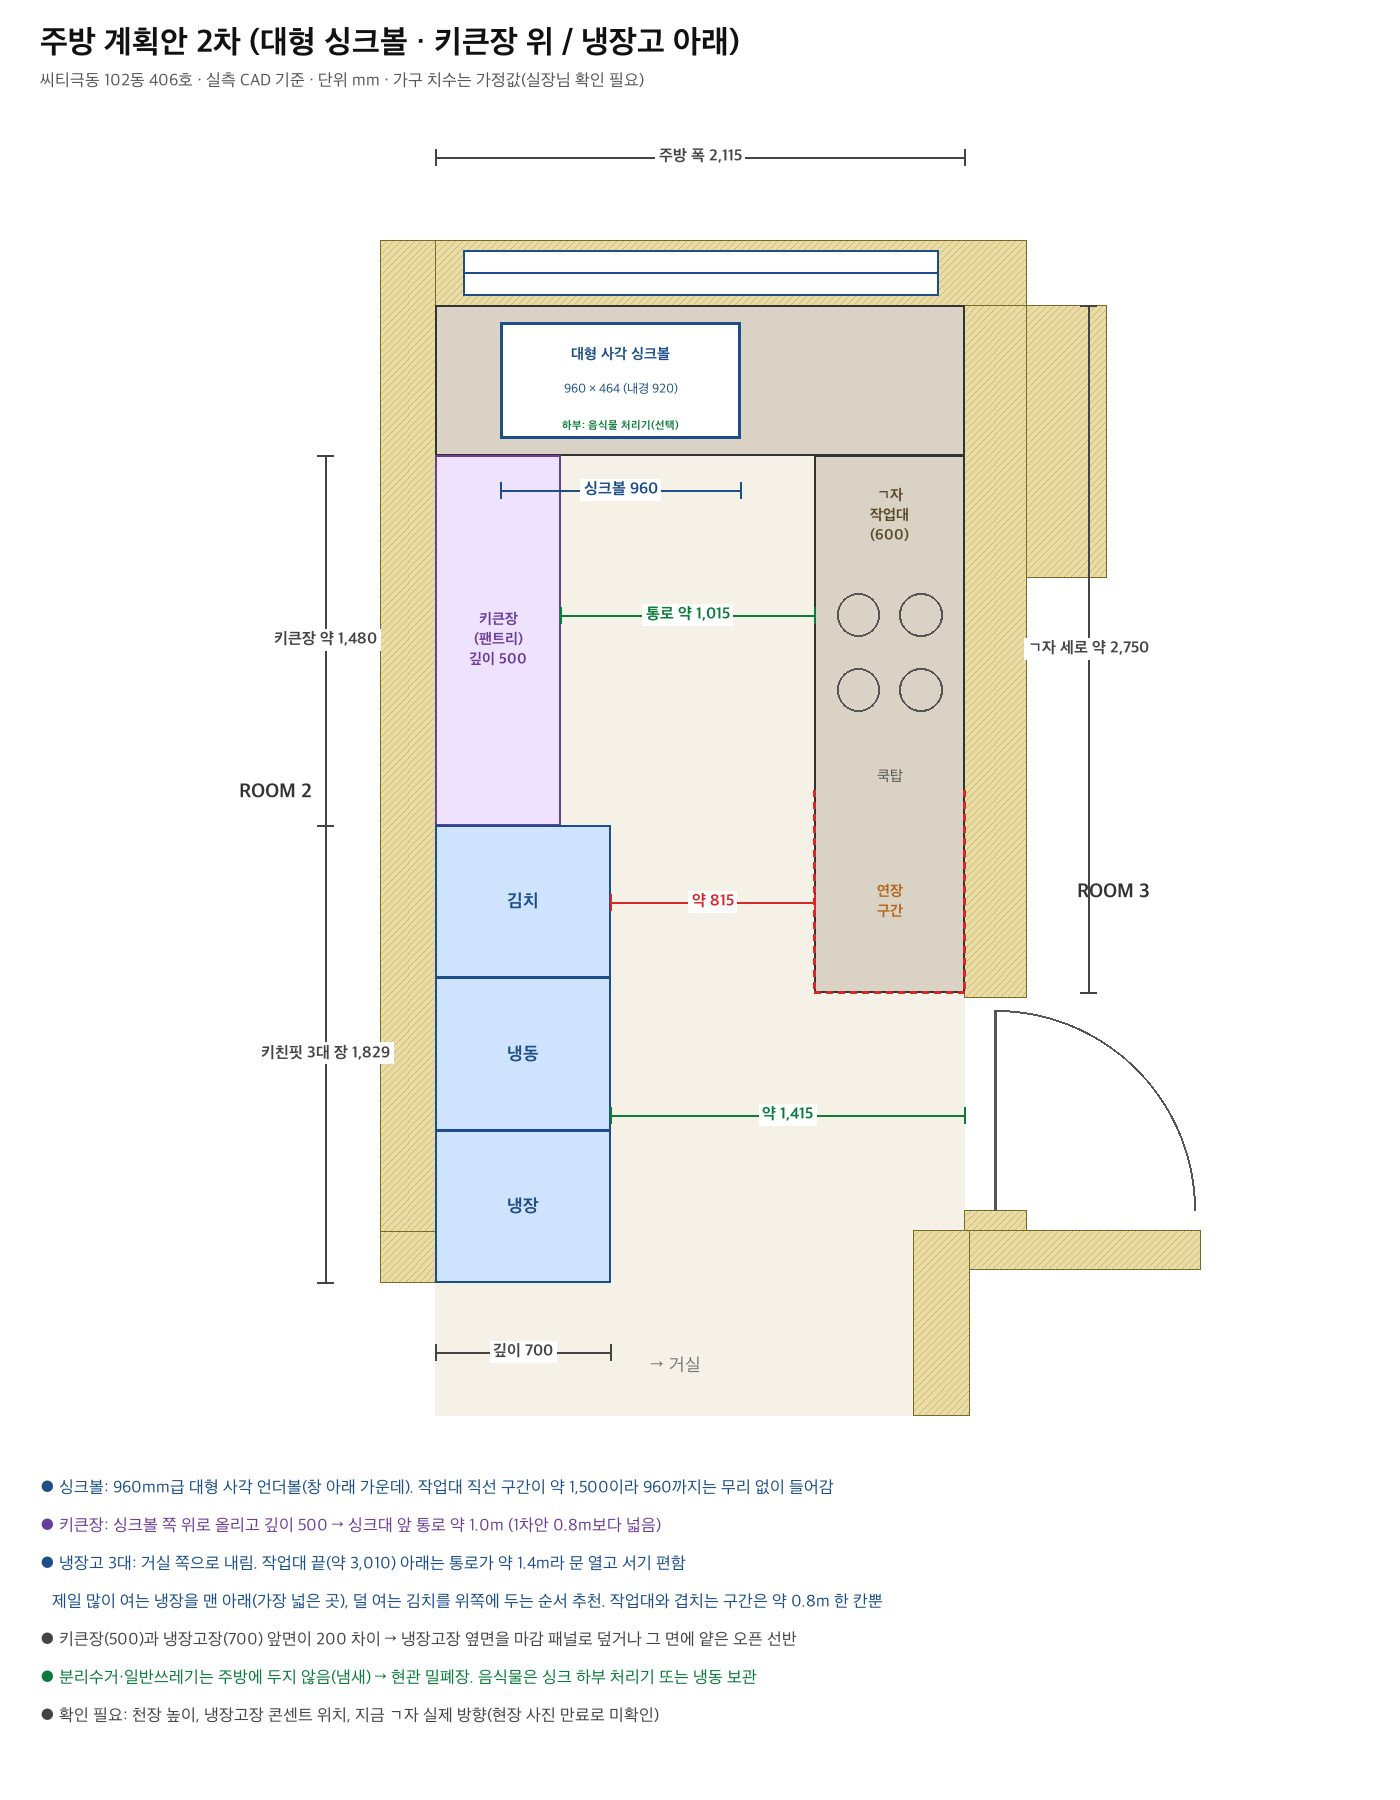
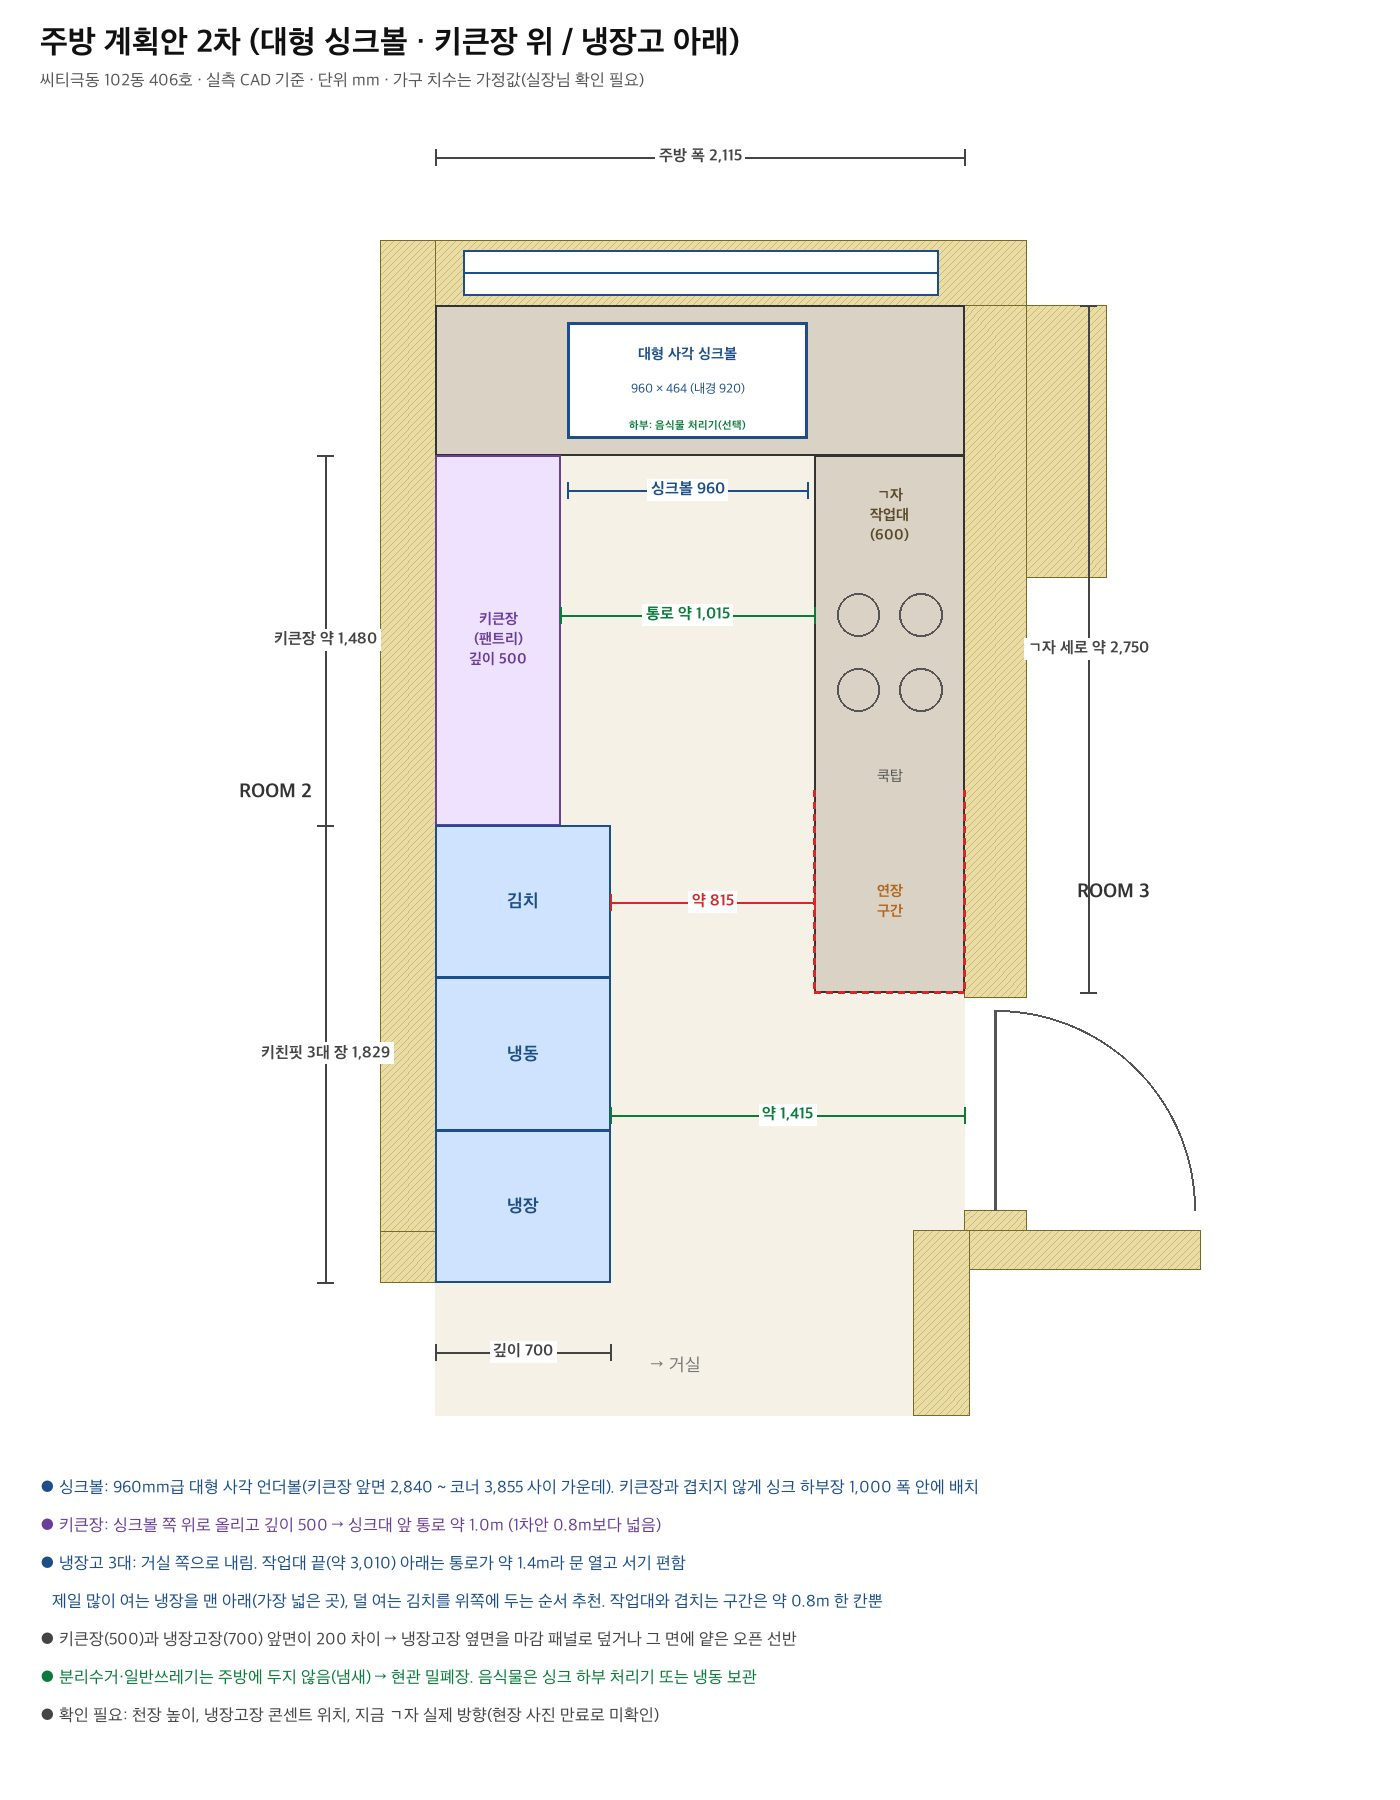
싱크 위치(키큰장 간섭) 수정, 안방 침대·협탁 재배치, 문 열림·통로 자동 점검 반영

Changed region(s): [[0.3379, 0.1556, 0.5836, 0.28], [0.215, 0.8089, 0.6143, 0.84], [0.645, 0.8089, 0.6757, 0.84]]

diff --git a/js/concepts.js b/js/concepts.js
@@ -14,16 +14,16 @@ export const CONCEPTS = [
     V: { bench: true },
     pal: [['#efe6d9', '벽 · 크림'], ['#ba9168', '바닥 · 미디엄 오크'], ['#7a5236', '식탁 · 월넛'], ['#c9ae8f', '소파 · 카멜 패브릭'], ['#c48a6a', '의자 · 테라코타 패브릭'], ['#8a6446', '중문 · 우드 프레임 + 모루유리']],
     inter: ['우드 프레임 + 모루유리 중문으로 현관을 따뜻하게(빛은 통과, 시선은 흐리게)', '월넛 식탁·테라코타 패브릭 의자로 거실 중심을 잡고 큰 면은 크림', '커튼 박스 + 간접등, 창가 플로어 스탠드로 저녁 분위기'],
-    eff: ['거실 창 아래 높이 45cm 수납 벤치(길이 약 2.85m, 깊이 45cm): 앉고, 눕고, 장난감 수납', '벤치 위 쿠션만 바꾸면 아이 낮잠·책 읽는 자리', '놀이 매트는 거실 가운데로'],
+    eff: ['거실 창 아래 높이 45cm 수납 벤치(길이 약 2.45m, 깊이 45cm): 앉고, 눕고, 장난감 수납', '벤치 위 쿠션만 바꾸면 아이 낮잠·책 읽는 자리', '놀이 매트는 거실 가운데로'],
     ref: '원앙마을 성화인테리어(창고장), 국보 한강극동(우드 포인트)', views: ['living', 'dining']
   },
   {
-    id: '03', name: '그레이 모던 + 안방 붙박이장', tag: '포그그레이 주방·600각 포세린 바닥. 안방 왼쪽 벽 전체 붙박이장, 창가는 화장대.',
+    id: '03', name: '그레이 모던 + 안방 붙박이장', tag: '포그그레이 주방·600각 포세린 바닥. 안방 왼쪽 벽 붙박이장 + 창가 화장대.',
     T: { wall: '#ebebe9', part: '#dcdcda', door: '#4a4d50', dframe: '#3b3e41', klow: '#8f969a', ctop: '#e8e6e1', kup: '#8f969a', tall: '#d9dbdc', fridge: '#b9bec2', base: '#d9dbdc', seat: '#a9adb0', back: '#9a9fa3', table: '#e6e2da', stone: true, leg: '#2f3235', metalLeg: true, chair: '#3b3e41', chairStyle: 'fabric', mat: '#e4e2dc', acc: '#9fb3c0', duvet: '#e9eaeb', head: '#7d8387', channel: true, desk: '#bfc3c6', vanity: '#d9dbdc', curtain: '#d9dadb', floor: 'tile', floorc: [206, 204, 199], entry: [190, 188, 184], rug: '#cfd0d0', pendant: '#2f3235', pendantStyle: 'cone', khandle: 'bar', splash: '#e9e7e2' },
     V: { dress: true, upper: true },
     pal: [['#ebebe9', '벽 · 라이트 그레이'], ['#cecbc6', '바닥 · 600각 포세린'], ['#8f969a', '주방 · 포그그레이'], ['#e6e2da', '식탁 · 화이트 스톤'], ['#3b3e41', '의자·조명 · 차콜'], ['#9fb3c0', '포인트 · 블루그레이']],
     inter: ['거실·주방 바닥을 600각 포세린 타일로 통일(국보 한강극동·씨티극동 43평 방식)', '주방 하부장·상부장 포그그레이 + 밝은 상판, 상부장 아래 간접등', '침대 헤드는 세로 채널 패브릭, 블랙 금속 다리 식탁·의자로 선 정리'],
-    eff: ['안방 왼쪽 벽(약 2.5m) 천장까지 슬라이딩 붙박이장, 침대는 오른쪽으로', '안방 확장부 창가는 화장대 + 전신거울 + 스툴(창 빛 그대로)', '기존 붙박이장 자리는 낮은 서랍장으로, 주방 오른쪽 작업대 위 상부장 추가'],
+    eff: ['안방 왼쪽 벽(약 2.4m) 천장까지 슬라이딩 붙박이장(방문 열리는 자리는 피해서 시작)', '안방 확장부 창가는 화장대 + 거울 + 스툴(창 빛 그대로), 붙박이장 앞쪽 끝에 낮은 서랍장 + 거울', '주방 오른쪽 작업대 위 상부장 추가'],
     ref: '국보 씨티극동 43평·한강극동 24평(포그그레이 주방, 포세린), ECI(안방 붙박이장 3,388)', views: ['master', 'kitchen']
   },
   {
@@ -64,7 +64,7 @@ export const VIEWS = {
   entry: ['현관·전실', [2.6, 1.5, 7.6], [0.35, 0.95, 4.8]],
   kitchen: ['주방', [3.5, 1.55, 4.95], [3.15, 0.95, 0.8]],
   cafe: ['키큰장·홈카페', [3.75, 1.45, 2.75], [2.45, 1.1, 1.5]],
-  master: ['안방', [3.7, 1.6, 6.15], [5.7, 0.55, 9.1]],
+  master: ['안방', [3.75, 1.6, 6.2], [5.9, 0.5, 8.3]],
   masterExt: ['안방 창가', [5.35, 1.5, 9.95], [3.3, 0.8, 10.1]],
   kids1: ['아이방 1', [1.85, 1.6, 4.6], [0.6, 0.95, 1.6]],
   kids2: ['아이방 2', [5.0, 1.55, 3.6], [6.0, 0.85, 1.0]],

diff --git a/index.html b/index.html
@@ -35,7 +35,7 @@
   </div>
   <div id="views" class="views"></div>
   <article id="info" class="info"></article>
-  <p class="note">· 벽 높이는 천장 2.3m로 가정했어요(실측 천장고·하리 높이 받으면 수정). 평면 치수는 실측 CAD 기준이고 가구는 예시입니다.<br>· 주소창의 #c01~#c06 으로 컨셉을 바로 열 수 있어요. 예) 이 페이지 주소 끝에 #c05</p>
+  <p class="note">· 배치 점검: 모든 문이 열리는 자리(아이방·욕실·안방·세탁부스), 싱크·쿡탑 앞 60cm, 냉장고·키큰장 문 열림, 식탁 의자 빼는 자리, 침대 양옆·발치 통로, 세탁기·세면대·변기 앞 공간에 가구가 겹치지 않게 6개 컨셉 모두 자동으로 확인했어요.<br>· 벽 높이는 천장 2.3m로 가정했어요(실측 천장고·하리 높이 받으면 수정). 평면 치수는 실측 CAD 기준이고 가구는 예시입니다.<br>· 주소창의 #c01~#c06 으로 컨셉을 바로 열 수 있어요. 예) 이 페이지 주소 끝에 #c05</p>
 </section>
 
 <section id="tplan" class="tab">
@@ -59,8 +59,9 @@
     <h2>정해진 방향</h2>
     <ul>
       <li><b>확장</b> 발코니 1·2·3 전부 확장, 샷시 전체 교체, 거실 둥근 창 → 일자 통창. 거실·안방 사이 확장부에 새 벽(단열·흡음재).</li>
+      <li><b>안방</b> 방문이 안쪽으로 열리는 자리(문 앞 약 0.9m)를 비우려고 침대 머리는 동쪽 벽, 양옆 협탁, 붙박이장은 서쪽 벽(문 열림 다음부터, 슬라이딩).</li>
       <li><b>거실·식탁</b> 큰 소파 없이 전실 벽 뒤 + 왼쪽 벽 ㄱ자 붙박이 소파(식탁 의자 겸용). 식탁 1,600×800 세로 배치, 최대 7명. TV는 오른쪽 벽 벽걸이. 창가는 아이 놀이 공간.</li>
-      <li><b>주방</b> ㄱ자 유지 + 오른쪽 다리를 아이방 2 문 앞까지 연장. 싱크볼 960 큰 사각볼(백조 깜뽀르테 960 1순위). 왼쪽 벽: 싱크 쪽 키큰장(깊이 500, 가전 수납) + 거실 쪽 냉장고장(1도어 3대).</li>
+      <li><b>주방</b> ㄱ자 유지 + 오른쪽 다리를 아이방 2 문 앞까지 연장. 싱크볼 960 큰 사각볼(백조 깜뽀르테 960 1순위)은 키큰장 앞면(2,840)과 코너(3,855) 사이 가운데 — 키큰장과 겹치지 않게. 왼쪽 벽: 싱크 쪽 키큰장(깊이 500, 가전 수납) + 거실 쪽 냉장고장(1도어 3대).</li>
       <li><b>현관</b> 중문을 거실 쪽으로 키워 전실로. 3연동 중문 + 신발장 + 분리수거장(40×40 통 적층). 음식물은 싱크 처리기.</li>
       <li><b>세탁</b> 창고 칸막이 철거 → 방음문 달린 세탁 부스(안 950×930), 삼성 세탁기·건조기 직렬. 안방은 부스 앞까지 확장.</li>
       <li><b>난방</b> 개별난방(LNG). 확장부 바닥 난방 배관 연장 필요.</li>

diff --git a/js/app.js b/js/app.js
@@ -2,7 +2,7 @@ import * as THREE from 'three';
 import { OrbitControls } from 'three/addons/controls/OrbitControls.js';
 import { RoomEnvironment } from 'three/addons/environments/RoomEnvironment.js';
 import { CSS2DRenderer, CSS2DObject } from 'three/addons/renderers/CSS2DRenderer.js';
-import { buildHouse, LABELS, CEIL_ONLY } from './house.js';
+import { buildHouse, LABELS, CEIL_ONLY, audit } from './house.js';
 import { CONCEPTS, VIEWS, VIEW_ORDER } from './concepts.js';
 
 const wrap = document.getElementById('viewer');
@@ -112,4 +112,4 @@ const start = Math.max(0, CONCEPTS.findIndex(c => location.hash === '#c' + c.id)
 const qv = new URLSearchParams(location.search).get('v');
 setConcept(start); goView(qv && VIEWS[qv] ? qv : 'overview', true);
 requestAnimationFrame(loop);
-window.__goView = goView; window.__setConcept = setConcept;
+window.__audit = audit; window.__goView = goView; window.__setConcept = setConcept;
